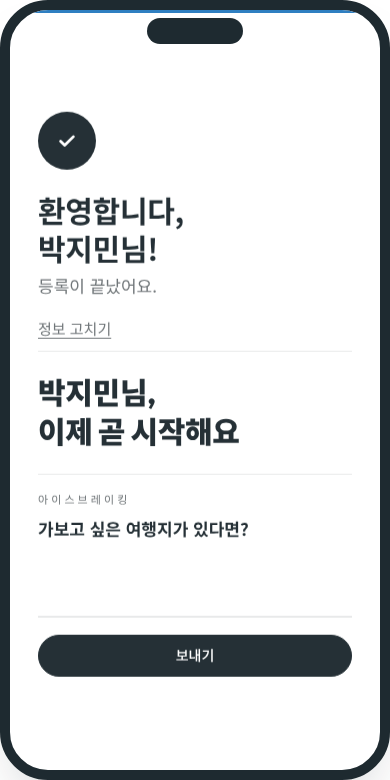
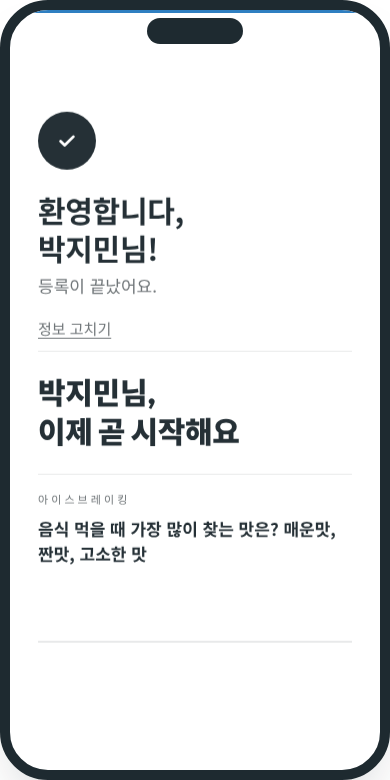
Phone: no send buttons; answers save as you type (… then ✓)
Claude-Session: https://claude.ai/code/session_01HiA1GonWmcVJgnFShP9VMN

Changed region(s): [[0.0923, 0.8, 0.9231, 0.8923], [0.0923, 0.6462, 0.8615, 0.7385]]

diff --git a/demo/index.html b/demo/index.html
@@ -381,6 +381,7 @@ input[data-act="funote"]:focus,input[data-act="bdayNote"]:focus{outline:none;bor
 .prsaved{min-height:18px;font-size:12px}
 .finline{border:0;border-top:1px solid var(--line);margin:14px 0 4px}
 .bdaystrip .pill{background:none;padding:0;color:var(--muted);font-weight:600}
+.autosave{display:flex;justify-content:flex-end;min-height:18px;font-size:16px;color:var(--ink);margin-top:-6px;letter-spacing:.1em}
 .praylist{border-left:1px solid var(--line);padding-left:28px;max-height:100%;overflow:auto}
 .praylist h3{margin:0 0 10px}
 .prow{padding:10px 0;border-bottom:1px solid var(--line)}
@@ -1103,9 +1104,9 @@ function fbHTML(w,pp){const key=pp?pp.id+'|'+w:'';const sel=FB_SEL[key]||[];
   return `<div class="fb"><p class="iq" style="margin-bottom:2px">오늘 어떠셨어요?</p><p class="note" style="margin:0 0 10px">누가 골랐는지는 보이지 않아요. 다음 새가족을 더 따뜻하게 맞이하는 데 쓸게요.</p>
    <div class="fbopts">${FB_OPTS.map(o=>`<button type="button" class="fbo ${sel.includes(o)?'on':''}" ${pp?`data-act="fbTog" data-w="${w}" data-pid="${pp.id}" data-o="${o}"`:'disabled'}>${o}</button>`).join('')}</div>
    <div class="fbfoot"><button type="button" class="linkbtn" ${pp?`data-act="fbSend" data-skip="1" data-w="${w}" data-pid="${pp.id}"`:'disabled'}>건너뛰기</button><button class="btn" type="button" ${pp?`data-act="fbSend" data-w="${w}" data-pid="${pp.id}"`:'disabled'} ${pp&&!sel.length?'disabled':''}>다음</button></div></div>`}
-function iceHTML(w,who,lid){const q=iceQ(w,lid);const a=who&&who.weeks[w]&&who.weeks[w].ice;const done=a&&a.q===q&&!ICE_EDIT.has(who.id+'|'+w);
-  return `<div class="ice"><p class="lbl">아이스브레이킹</p><p class="iq">${esc(q)}</p>${!who?'<textarea rows="2" disabled></textarea>':done?`<p class="ia">${esc(a.a)}</p><button type="button" class="linkbtn" data-act="iceEdit" data-w="${w}" data-pid="${who.id}">고치기</button>`
-   :`<textarea id="ice-${w}" rows="2">${esc(a&&a.q===q?a.a:'')}</textarea><button class="btn" type="button" data-act="iceSend" data-w="${w}" data-pid="${who.id}">보내기</button>`}</div>`}
+const SAVED='<svg width="14" height="14" viewBox="0 0 24 24" fill="none" stroke="currentColor" stroke-width="2.6" stroke-linecap="round" stroke-linejoin="round" aria-label="저장됨"><path d="M5 12.5l4.5 4.5L19 7.5"/></svg>';
+function iceHTML(w,who,lid){const q=iceQ(w,lid);const a=who&&who.weeks[w]&&who.weeks[w].ice;const v=a&&a.q===q?a.a:'';
+  return `<div class="ice"><p class="lbl">아이스브레이킹</p><p class="iq">${esc(q)}</p><textarea rows="2" aria-label="답" ${who?`id="ice-${w}" data-act="iceType" data-w="${w}" data-pid="${who.id}"`:'disabled'}>${esc(v)}</textarea><span class="autosave" aria-live="polite">${v?SAVED:''}</span></div>`}
 function liveHTML(w,pid,lidOver){
   const lid=lidOver||(pid&&ownerOf(w,pid));const who=pid&&byId(pid);
   const waitHTML=`<div class="live" data-live="${w}" data-pid="${pid||''}"><p class="kw wait">${who?esc(nm(who))+'님,<br>':''}이제 곧 시작해요</p>${iceHTML(w,who,lid)}</div>`;
@@ -1117,7 +1118,7 @@ function liveHTML(w,pid,lidOver){
   const fbDone=pp&&pp.weeks[w]&&pp.weeks[w].fb;
   if(fin&&!fbDone)return `<div class="live started" data-live="${w}" data-pid="${pid||''}"><p class="lbl">${w}주차를 마쳤어요</p><p class="kw" style="font-size:28px">함께해 주셔서 감사합니다</p>${fbHTML(w,pp)}</div>`;
   const myPr=pp&&pp.weeks[w]&&pp.weeks[w].prayerBy==='self'?pp.weeks[w].prayer:'';
-  const prayer=fin?`<div class="pray-f"><label for="pray-${w}" class="prlbl"><svg width="18" height="18" viewBox="0 0 24 24" fill="none" stroke="currentColor" stroke-width="1.8" stroke-linecap="round" stroke-linejoin="round" aria-hidden="true"><path d="M12 20h9"/><path d="M16.5 3.5a2.1 2.1 0 0 1 3 3L7 19l-4 1 1-4Z"/></svg>이번 주 기도제목을 나눠 주세요</label><textarea ${pp?`id="pray-${w}" data-act="prayerType" data-w="${w}" data-pid="${pid}"`:'disabled'} rows="2" aria-label="이번 주 기도제목">${esc(myPr)}</textarea><span class="note prsaved" aria-live="polite">${myPr?'순장님께 전해졌어요':''}</span></div>`:'';
+  const prayer=fin?`<div class="pray-f"><label for="pray-${w}" class="prlbl"><svg width="18" height="18" viewBox="0 0 24 24" fill="none" stroke="currentColor" stroke-width="1.8" stroke-linecap="round" stroke-linejoin="round" aria-hidden="true"><path d="M12 20h9"/><path d="M16.5 3.5a2.1 2.1 0 0 1 3 3L7 19l-4 1 1-4Z"/></svg>이번 주 기도제목을 나눠 주세요</label><textarea ${pp?`id="pray-${w}" data-act="prayerType" data-w="${w}" data-pid="${pid}"`:'disabled'} rows="2" aria-label="이번 주 기도제목">${esc(myPr)}</textarea><span class="autosave" aria-live="polite">${myPr?SAVED:''}</span></div>`:'';
   return `<div class="live started" data-live="${w}" data-pid="${pid||''}"><p class="lbl">${fin?w+'주차를 마쳤어요':'지금 나누는 이야기'}</p><p class="kw"${fin?' style="font-size:28px"':''}>${fin?'함께해 주셔서 감사합니다':esc(kwT)}</p>${!fin&&briefH?`<ul class="brief">${briefH}</ul>`:''}
    ${fin?'<hr class="finline">':`<div class="dots">${t.map((_,j)=>`<i class="${j<c.idx?'on':''} ${j===i?'cur':''}"></i>`).join('')}</div>`}${prayer}${fin?saveBar(w,!!pp):''}</div>`;
 }
@@ -1777,9 +1778,12 @@ document.addEventListener('change',e=>{const a=e.target.dataset.act;
   if(a==='owner'){byId(e.target.dataset.pid).owner=e.target.value;save();rerender();toast('담당 순장을 바꿨어요')}
   if(a==='merge'&&e.target.value){const from=e.target.dataset.c,to=CHURCH_SEED.find(c=>c.id===e.target.value);db.people.forEach(p=>{if(p.church&&p.church.id===from)p.church=to});db.customChurches=db.customChurches.filter(c=>c.id!==from);save();toast(`${to.name}(으)로 합쳤어요`);rerender()}
 });
+/* 쓰는 동안 … , 멈추면 저장하고 ✓ */
+function autoMark(t,val){const sv=t.parentNode.querySelector('.autosave');if(sv)sv.textContent=val()?'…':'';clearTimeout(t._sv);t._sv=setTimeout(()=>{save();if(sv)sv.innerHTML=val()?SAVED:''},800)}
 let repT;document.addEventListener('input',e=>{const t=e.target;
   if(t.dataset&&t.dataset.act==='prayerType'){const p=byId(t.dataset.pid),w=+t.dataset.w;if(!p)return;const r=p.weeks[w]=p.weeks[w]||{};r.prayer=t.value.trim();r.prayerBy='self';Object.keys(IMGCACHE).forEach(k=>{if(k.endsWith('|'+p.id))delete IMGCACHE[k]});
-    const sv=t.parentNode.querySelector('.prsaved');if(sv)sv.textContent='';clearTimeout(repT);repT=setTimeout(()=>{save();if(sv)sv.textContent=r.prayer?'순장님께 전해졌어요':''},700);return}
+    autoMark(t,()=>r.prayer);return}
+  if(t.dataset&&t.dataset.act==='iceType'){const p=byId(t.dataset.pid),w=+t.dataset.w;if(!p)return;const r=p.weeks[w]=p.weeks[w]||{};r.ice={q:iceQ(w,ownerOf(w,p.id)||''),a:t.value.trim()};autoMark(t,()=>r.ice.a);return}
   if(t.dataset.rep){const p=byId(t.dataset.pid);p.weeks[+t.dataset.w][t.dataset.rep]=t.value;clearTimeout(repT);repT=setTimeout(save,300)}
   if(t.dataset.act==='bdayNote'){const p=byId(t.dataset.pid);const y=today.slice(0,4);if(!p.bday||p.bday.y!==y)p.bday={y,note:'',done:false};p.bday.note=t.value;clearTimeout(repT);repT=setTimeout(save,300)}
   if(t.dataset.act==='funote'){const p=byId(t.dataset.pid);p.followups.find(x=>x.id===t.dataset.fid).note=t.value;clearTimeout(repT);repT=setTimeout(save,300)}

diff --git a/site/app/index.html b/site/app/index.html
@@ -386,6 +386,7 @@ input[data-act="funote"]:focus,input[data-act="bdayNote"]:focus{outline:none;bor
 .prsaved{min-height:18px;font-size:12px}
 .finline{border:0;border-top:1px solid var(--line);margin:14px 0 4px}
 .bdaystrip .pill{background:none;padding:0;color:var(--muted);font-weight:600}
+.autosave{display:flex;justify-content:flex-end;min-height:18px;font-size:16px;color:var(--ink);margin-top:-6px;letter-spacing:.1em}
 .praylist{border-left:1px solid var(--line);padding-left:28px;max-height:100%;overflow:auto}
 .praylist h3{margin:0 0 10px}
 .prow{padding:10px 0;border-bottom:1px solid var(--line)}
@@ -1111,9 +1112,9 @@ function fbHTML(w,pp){const key=pp?pp.id+'|'+w:'';const sel=FB_SEL[key]||[];
   return `<div class="fb"><p class="iq" style="margin-bottom:2px">오늘 어떠셨어요?</p><p class="note" style="margin:0 0 10px">누가 골랐는지는 보이지 않아요. 다음 새가족을 더 따뜻하게 맞이하는 데 쓸게요.</p>
    <div class="fbopts">${FB_OPTS.map(o=>`<button type="button" class="fbo ${sel.includes(o)?'on':''}" ${pp?`data-act="fbTog" data-w="${w}" data-pid="${pp.id}" data-o="${o}"`:'disabled'}>${o}</button>`).join('')}</div>
    <div class="fbfoot"><button type="button" class="linkbtn" ${pp?`data-act="fbSend" data-skip="1" data-w="${w}" data-pid="${pp.id}"`:'disabled'}>건너뛰기</button><button class="btn" type="button" ${pp?`data-act="fbSend" data-w="${w}" data-pid="${pp.id}"`:'disabled'} ${pp&&!sel.length?'disabled':''}>다음</button></div></div>`}
-function iceHTML(w,who,lid){const q=iceQ(w,lid);const a=who&&who.weeks[w]&&who.weeks[w].ice;const done=a&&a.q===q&&!ICE_EDIT.has(who.id+'|'+w);
-  return `<div class="ice"><p class="lbl">아이스브레이킹</p><p class="iq">${esc(q)}</p>${!who?'<textarea rows="2" disabled></textarea>':done?`<p class="ia">${esc(a.a)}</p><button type="button" class="linkbtn" data-act="iceEdit" data-w="${w}" data-pid="${who.id}">고치기</button>`
-   :`<textarea id="ice-${w}" rows="2">${esc(a&&a.q===q?a.a:'')}</textarea><button class="btn" type="button" data-act="iceSend" data-w="${w}" data-pid="${who.id}">보내기</button>`}</div>`}
+const SAVED='<svg width="14" height="14" viewBox="0 0 24 24" fill="none" stroke="currentColor" stroke-width="2.6" stroke-linecap="round" stroke-linejoin="round" aria-label="저장됨"><path d="M5 12.5l4.5 4.5L19 7.5"/></svg>';
+function iceHTML(w,who,lid){const q=iceQ(w,lid);const a=who&&who.weeks[w]&&who.weeks[w].ice;const v=a&&a.q===q?a.a:'';
+  return `<div class="ice"><p class="lbl">아이스브레이킹</p><p class="iq">${esc(q)}</p><textarea rows="2" aria-label="답" ${who?`id="ice-${w}" data-act="iceType" data-w="${w}" data-pid="${who.id}"`:'disabled'}>${esc(v)}</textarea><span class="autosave" aria-live="polite">${v?SAVED:''}</span></div>`}
 function liveHTML(w,pid,lidOver){
   const lid=lidOver||(pid&&ownerOf(w,pid));const who=pid&&byId(pid);
   const waitHTML=`<div class="live" data-live="${w}" data-pid="${pid||''}"><p class="kw wait">${who?esc(nm(who))+'님,<br>':''}이제 곧 시작해요</p>${iceHTML(w,who,lid)}</div>`;
@@ -1125,7 +1126,7 @@ function liveHTML(w,pid,lidOver){
   const fbDone=pp&&pp.weeks[w]&&pp.weeks[w].fb;
   if(fin&&!fbDone)return `<div class="live started" data-live="${w}" data-pid="${pid||''}"><p class="lbl">${w}주차를 마쳤어요</p><p class="kw" style="font-size:28px">함께해 주셔서 감사합니다</p>${fbHTML(w,pp)}</div>`;
   const myPr=pp&&pp.weeks[w]&&pp.weeks[w].prayerBy==='self'?pp.weeks[w].prayer:'';
-  const prayer=fin?`<div class="pray-f"><label for="pray-${w}" class="prlbl"><svg width="18" height="18" viewBox="0 0 24 24" fill="none" stroke="currentColor" stroke-width="1.8" stroke-linecap="round" stroke-linejoin="round" aria-hidden="true"><path d="M12 20h9"/><path d="M16.5 3.5a2.1 2.1 0 0 1 3 3L7 19l-4 1 1-4Z"/></svg>이번 주 기도제목을 나눠 주세요</label><textarea ${pp?`id="pray-${w}" data-act="prayerType" data-w="${w}" data-pid="${pid}"`:'disabled'} rows="2" aria-label="이번 주 기도제목">${esc(myPr)}</textarea><span class="note prsaved" aria-live="polite">${myPr?'순장님께 전해졌어요':''}</span></div>`:'';
+  const prayer=fin?`<div class="pray-f"><label for="pray-${w}" class="prlbl"><svg width="18" height="18" viewBox="0 0 24 24" fill="none" stroke="currentColor" stroke-width="1.8" stroke-linecap="round" stroke-linejoin="round" aria-hidden="true"><path d="M12 20h9"/><path d="M16.5 3.5a2.1 2.1 0 0 1 3 3L7 19l-4 1 1-4Z"/></svg>이번 주 기도제목을 나눠 주세요</label><textarea ${pp?`id="pray-${w}" data-act="prayerType" data-w="${w}" data-pid="${pid}"`:'disabled'} rows="2" aria-label="이번 주 기도제목">${esc(myPr)}</textarea><span class="autosave" aria-live="polite">${myPr?SAVED:''}</span></div>`:'';
   return `<div class="live started" data-live="${w}" data-pid="${pid||''}"><p class="lbl">${fin?w+'주차를 마쳤어요':'지금 나누는 이야기'}</p><p class="kw"${fin?' style="font-size:28px"':''}>${fin?'함께해 주셔서 감사합니다':esc(kwT)}</p>${!fin&&briefH?`<ul class="brief">${briefH}</ul>`:''}
    ${fin?'<hr class="finline">':`<div class="dots">${t.map((_,j)=>`<i class="${j<c.idx?'on':''} ${j===i?'cur':''}"></i>`).join('')}</div>`}${prayer}${fin?saveBar(w,!!pp):''}</div>`;
 }
@@ -1785,9 +1786,12 @@ document.addEventListener('change',e=>{const a=e.target.dataset.act;
   if(a==='owner'){byId(e.target.dataset.pid).owner=e.target.value;save();rerender();toast('담당 순장을 바꿨어요')}
   if(a==='merge'&&e.target.value){const from=e.target.dataset.c,to=CHURCH_SEED.find(c=>c.id===e.target.value);db.people.forEach(p=>{if(p.church&&p.church.id===from)p.church=to});db.customChurches=db.customChurches.filter(c=>c.id!==from);save();toast(`${to.name}(으)로 합쳤어요`);rerender()}
 });
+/* 쓰는 동안 … , 멈추면 저장하고 ✓ */
+function autoMark(t,val){const sv=t.parentNode.querySelector('.autosave');if(sv)sv.textContent=val()?'…':'';clearTimeout(t._sv);t._sv=setTimeout(()=>{save();if(sv)sv.innerHTML=val()?SAVED:''},800)}
 let repT;document.addEventListener('input',e=>{const t=e.target;
   if(t.dataset&&t.dataset.act==='prayerType'){const p=byId(t.dataset.pid),w=+t.dataset.w;if(!p)return;const r=p.weeks[w]=p.weeks[w]||{};r.prayer=t.value.trim();r.prayerBy='self';Object.keys(IMGCACHE).forEach(k=>{if(k.endsWith('|'+p.id))delete IMGCACHE[k]});
-    const sv=t.parentNode.querySelector('.prsaved');if(sv)sv.textContent='';clearTimeout(repT);repT=setTimeout(()=>{save();if(sv)sv.textContent=r.prayer?'순장님께 전해졌어요':''},700);return}
+    autoMark(t,()=>r.prayer);return}
+  if(t.dataset&&t.dataset.act==='iceType'){const p=byId(t.dataset.pid),w=+t.dataset.w;if(!p)return;const r=p.weeks[w]=p.weeks[w]||{};r.ice={q:iceQ(w,ownerOf(w,p.id)||''),a:t.value.trim()};autoMark(t,()=>r.ice.a);return}
   if(t.dataset.rep){const p=byId(t.dataset.pid);p.weeks[+t.dataset.w][t.dataset.rep]=t.value;clearTimeout(repT);repT=setTimeout(save,300)}
   if(t.dataset.act==='bdayNote'){const p=byId(t.dataset.pid);const y=today.slice(0,4);if(!p.bday||p.bday.y!==y)p.bday={y,note:'',done:false};p.bday.note=t.value;clearTimeout(repT);repT=setTimeout(save,300)}
   if(t.dataset.act==='funote'){const p=byId(t.dataset.pid);p.followups.find(x=>x.id===t.dataset.fid).note=t.value;clearTimeout(repT);repT=setTimeout(save,300)}
